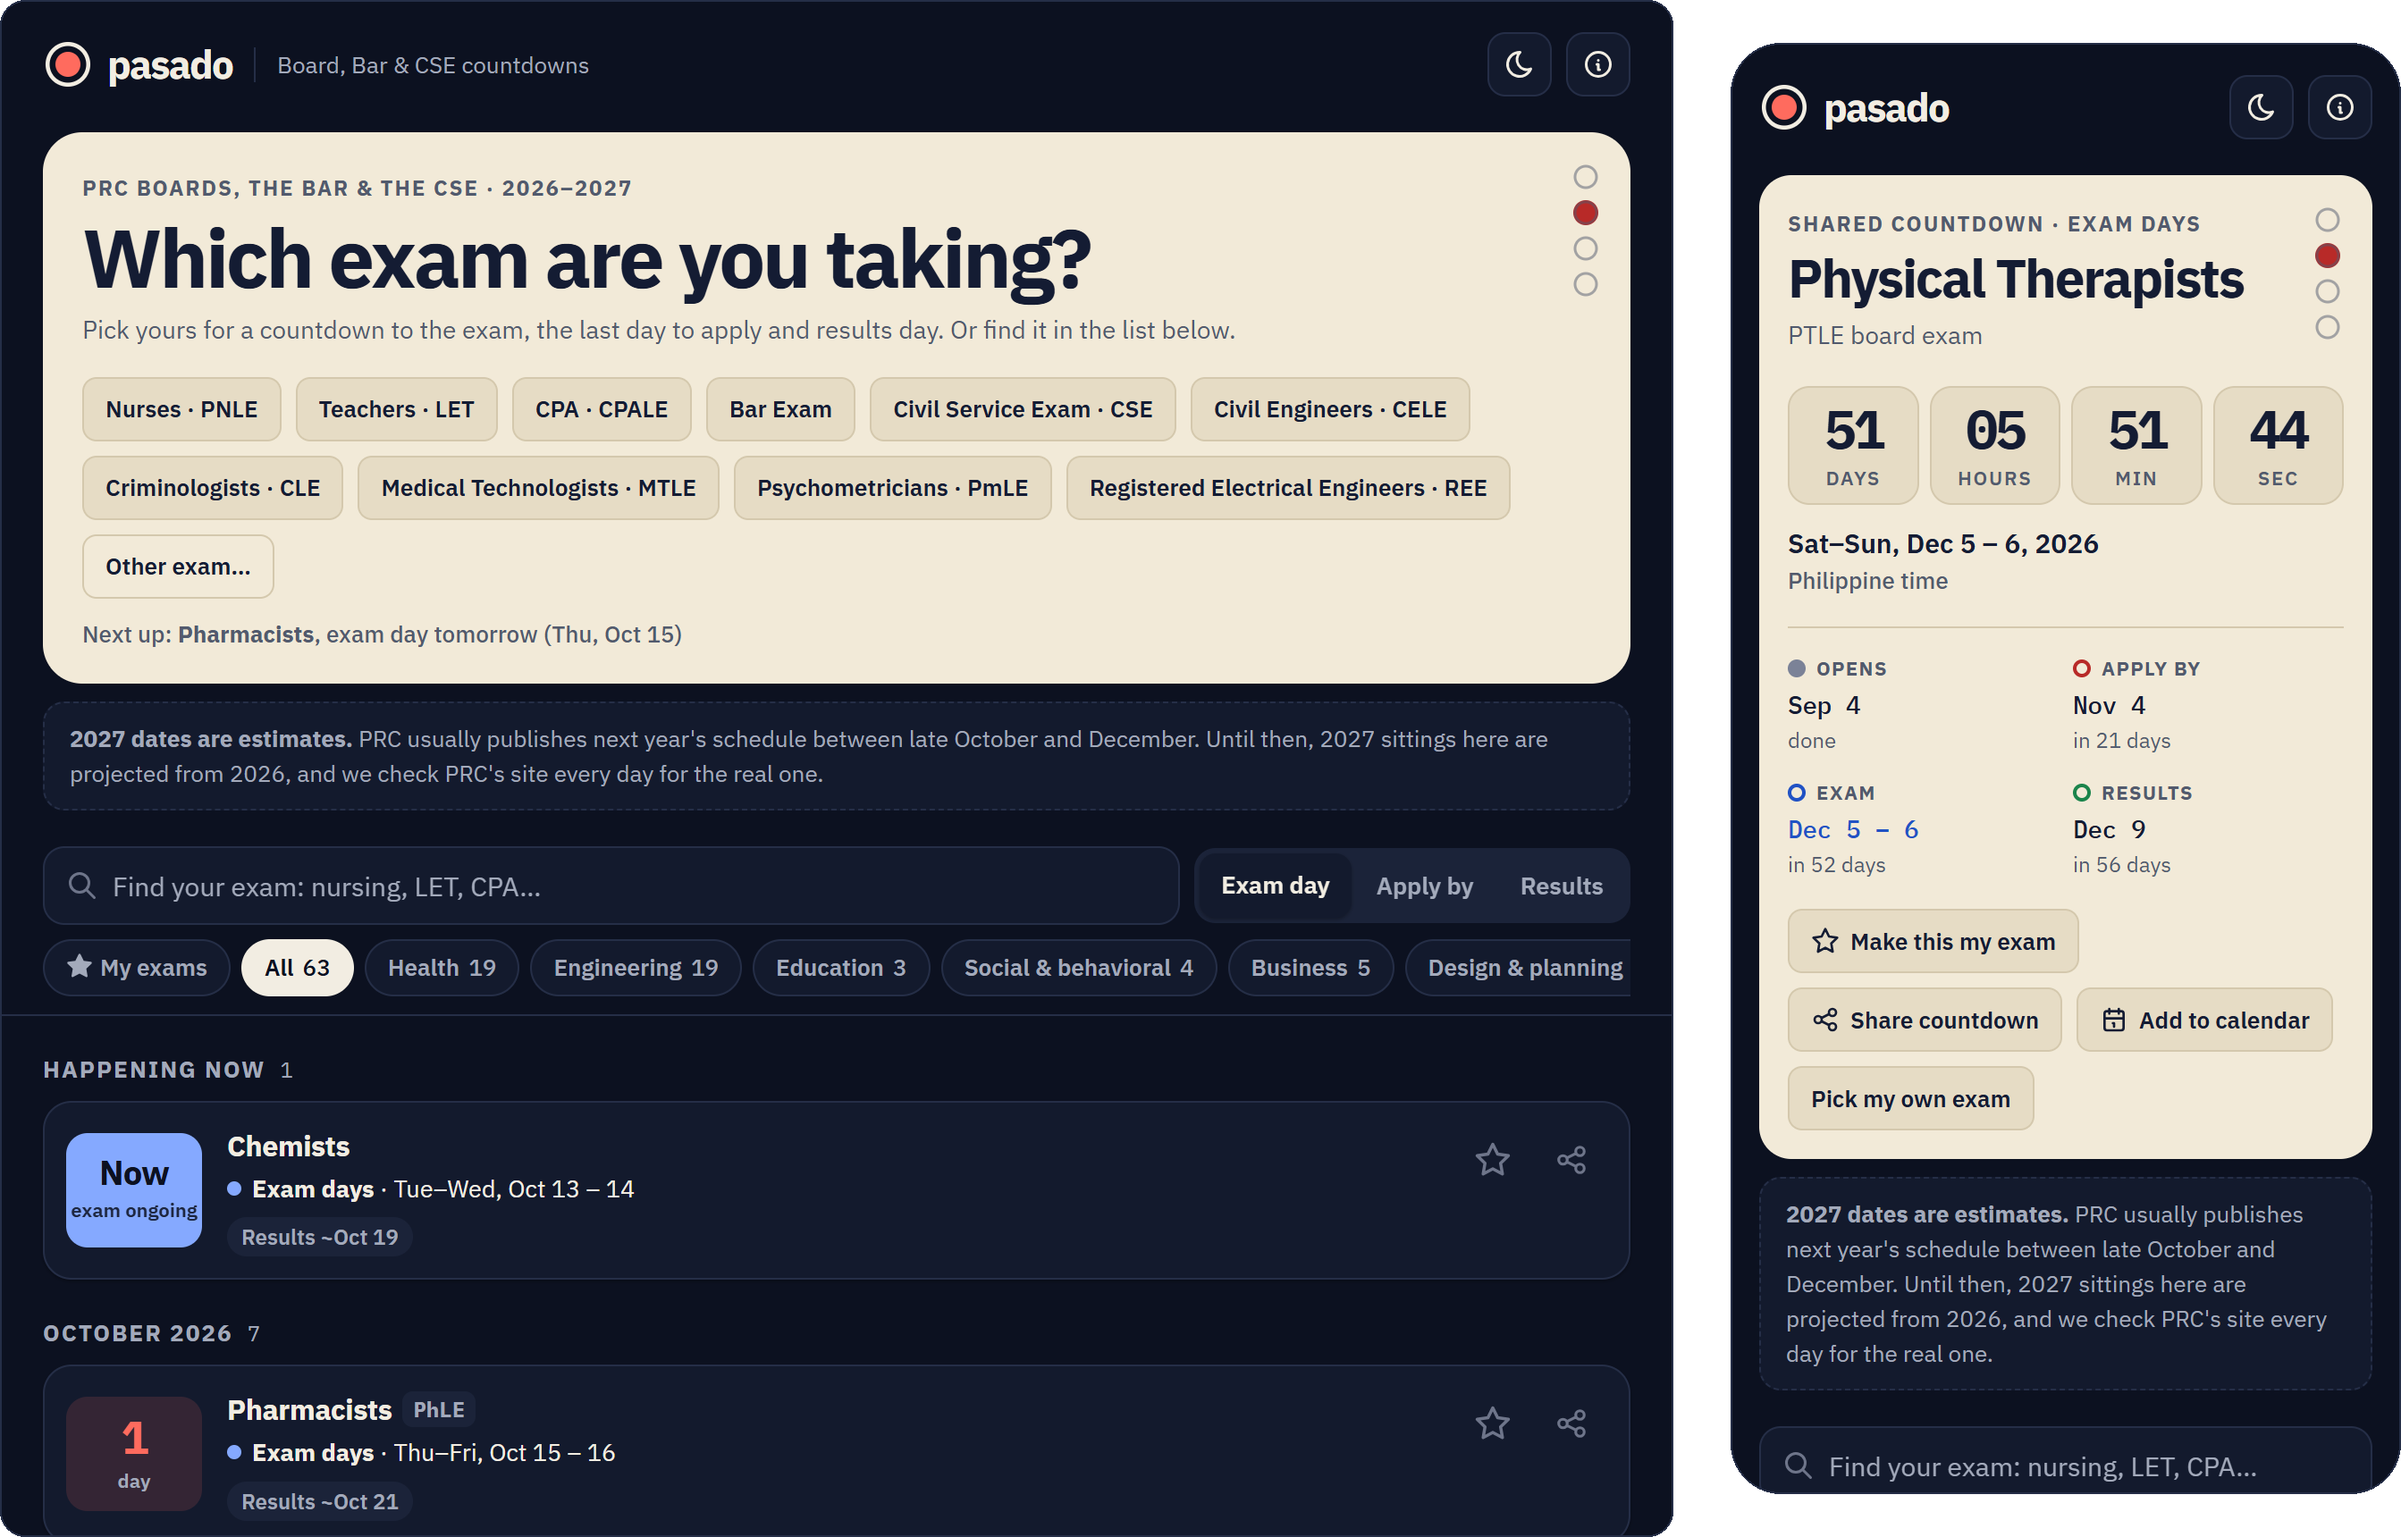
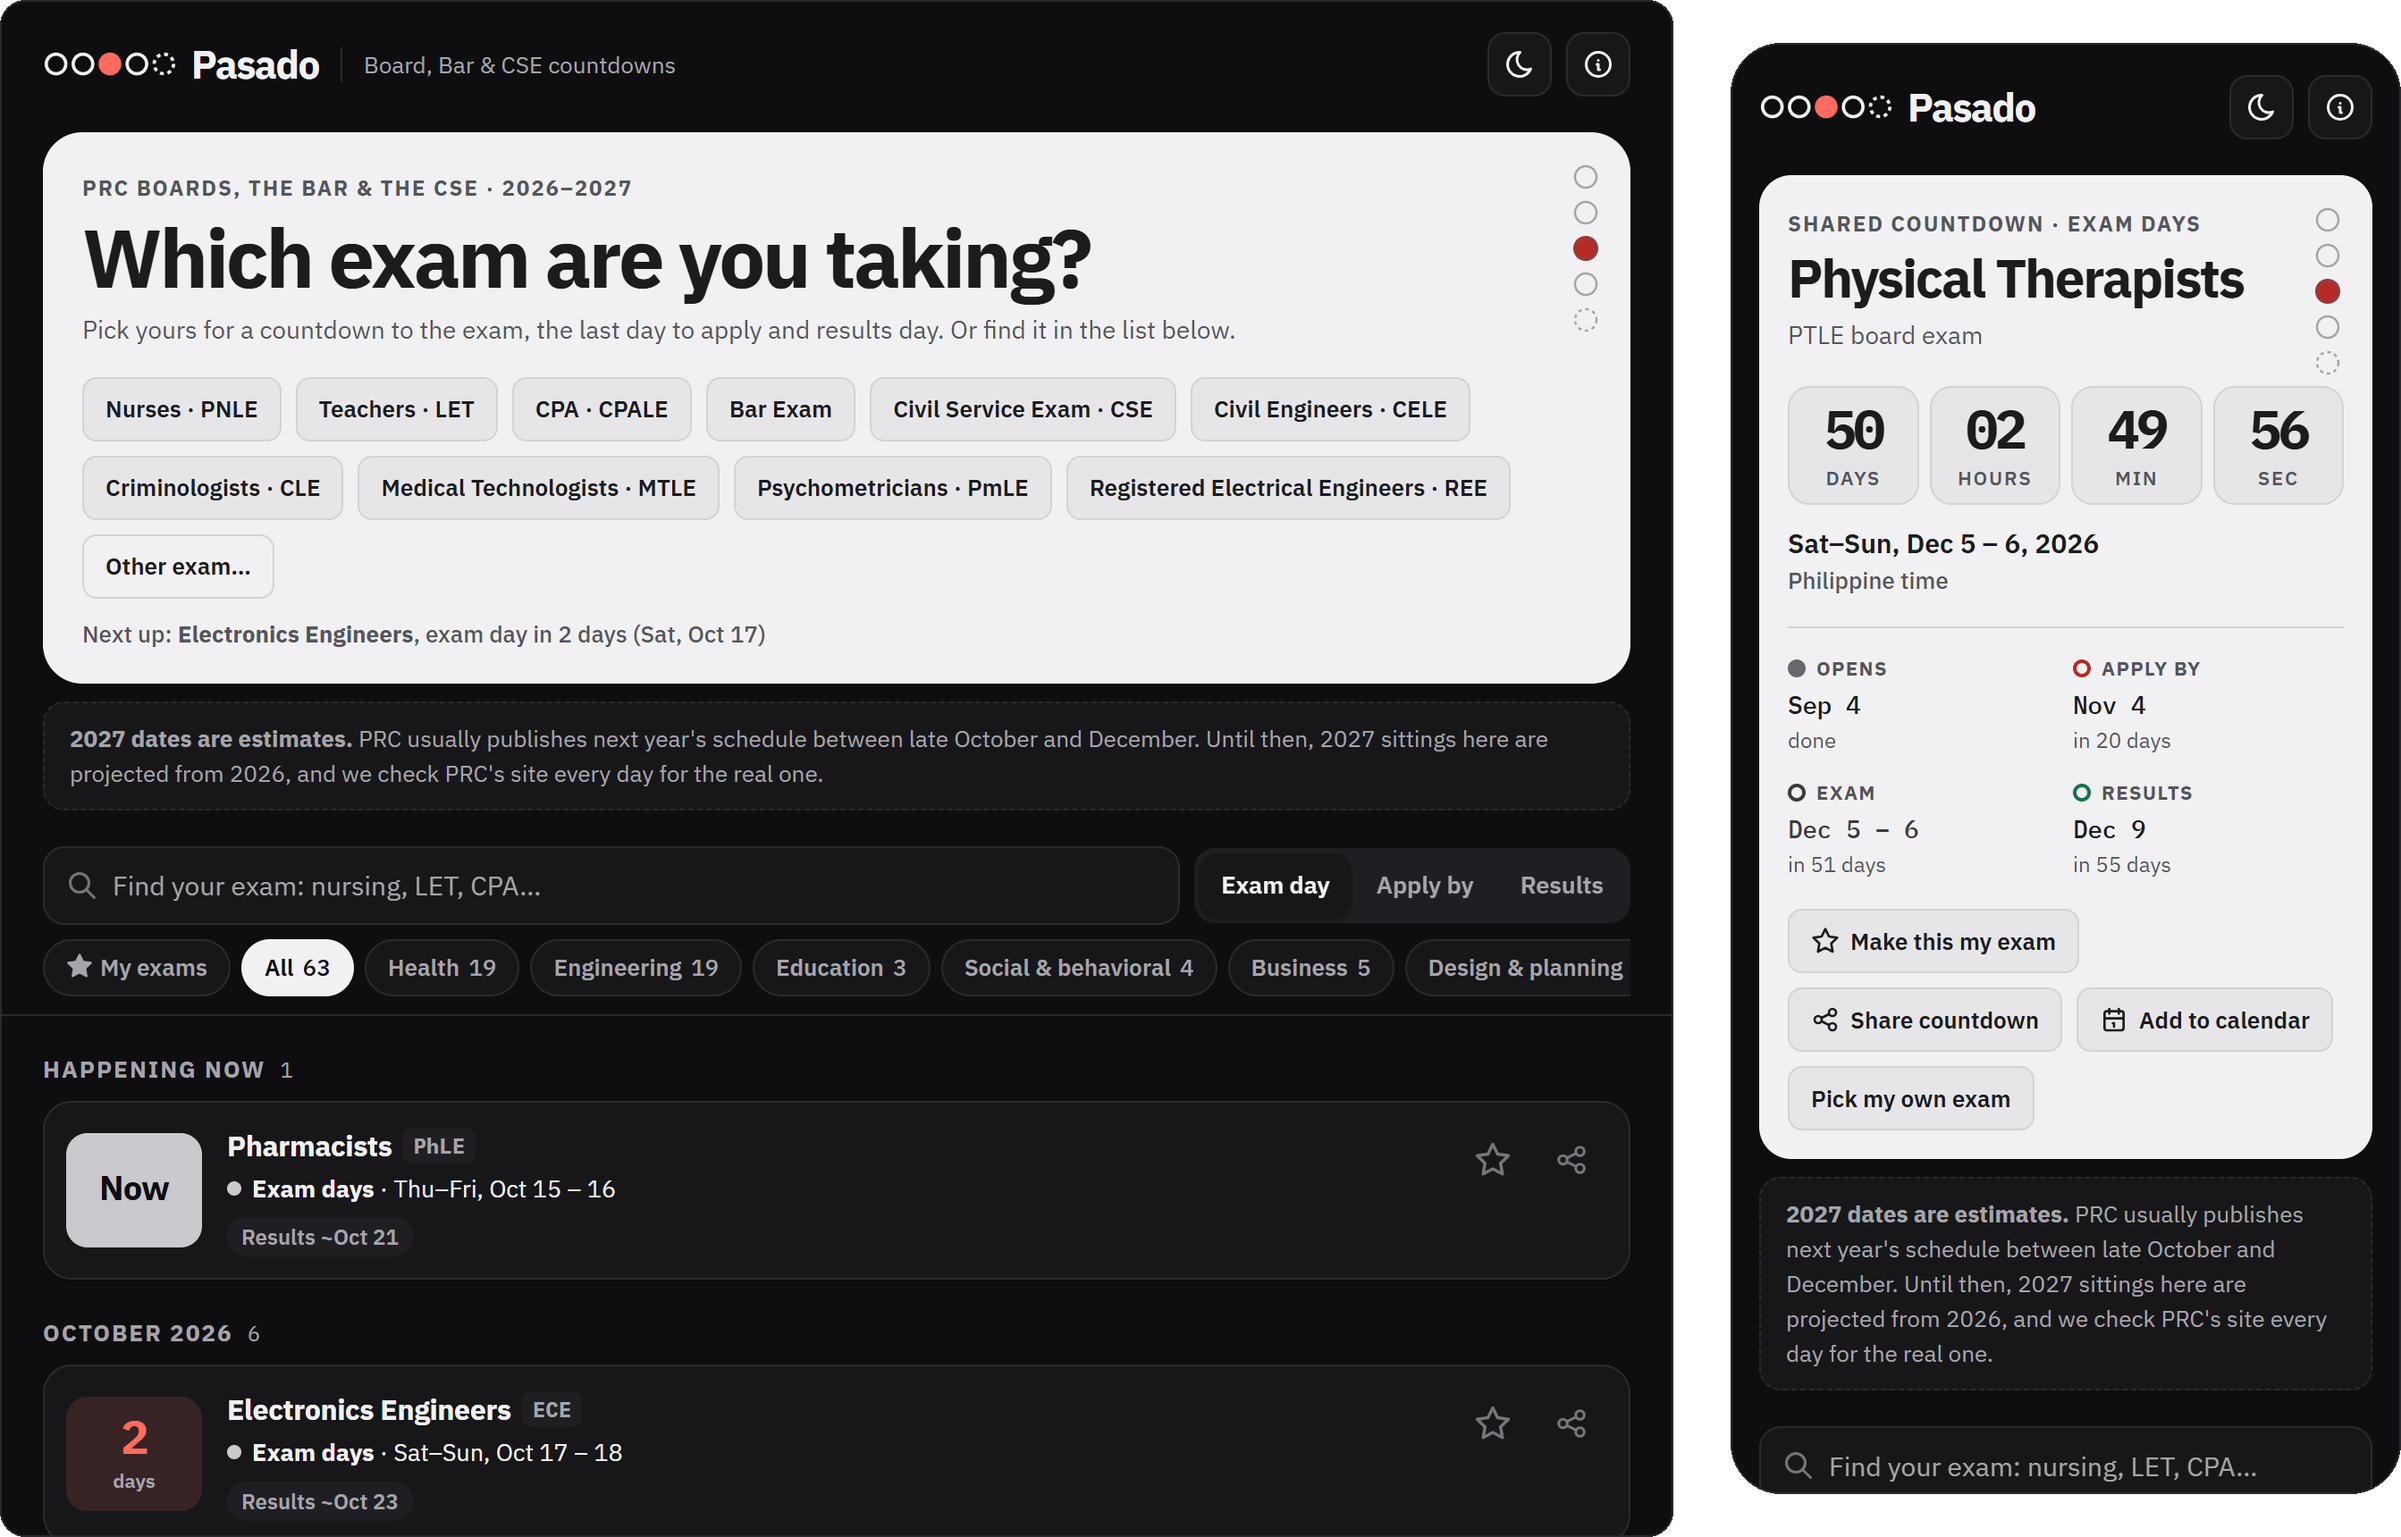
README: new screenshots, design section, countdown lines, preview branch
Screenshots retaken with the pencil palette and five-bubble logo; badges
in graphite. Adds a short Design section pointing to DESIGN.md, the
stage-based countdown lines, the rule for exam titles, and the
preview -> main deploy flow.

diff --git a/docs/make_screenshots.py b/docs/make_screenshots.py
@@ -25,7 +25,7 @@ CHROME = r"C:\Program Files\Google\Chrome\Application\chrome.exe"
 PORT = 8775
 EXAM = "physical-therapists"  # an exam with confirmed dates, so the countdown ticks
 SCALE = 2
-LINE = {"light": "#e1d8c6", "dark": "#252e47"}  # --line in each theme
+LINE = {"light": "#e3e3e6", "dark": "#2a2a2f"}  # --line in each theme
 
 # Loads the site in a fixed-size frame with the theme preset, because headless
 # Chrome won't make a window narrower than ~500 px and ignores colour-scheme flags.

diff --git a/README.md b/README.md
@@ -4,9 +4,9 @@
 
 <p align="center">
   <a href="https://pasado.ruzcko.dev"><img src="https://img.shields.io/badge/live-pasado.ruzcko.dev-b82a28?logo=cloudflare&logoColor=white" alt="Live site: pasado.ruzcko.dev"></a>
-  <a href="https://pasado.ruzcko.dev"><img src="https://img.shields.io/badge/dynamic/json?url=https%3A%2F%2Fpasado.ruzcko.dev%2Fdata%2Fexams.json&query=%24.exams.length&label=exams&color=16213e" alt="Number of exams covered"></a>
-  <a href="#where-the-dates-come-from"><img src="https://img.shields.io/badge/dates-PRC%20%C2%B7%20Supreme%20Court%20%C2%B7%20CSC-16213e" alt="Dates from PRC, the Supreme Court and the Civil Service Commission"></a>
-  <img src="https://img.shields.io/badge/-no%20ads%2C%20no%20tracking-5c6377" alt="No ads, no tracking">
+  <a href="https://pasado.ruzcko.dev"><img src="https://img.shields.io/badge/dynamic/json?url=https%3A%2F%2Fpasado.ruzcko.dev%2Fdata%2Fexams.json&query=%24.exams.length&label=exams&color=1f1f22" alt="Number of exams covered"></a>
+  <a href="#where-the-dates-come-from"><img src="https://img.shields.io/badge/dates-PRC%20%C2%B7%20Supreme%20Court%20%C2%B7%20CSC-1f1f22" alt="Dates from PRC, the Supreme Court and the Civil Service Commission"></a>
+  <img src="https://img.shields.io/badge/-no%20ads%2C%20no%20tracking-5d5d63" alt="No ads, no tracking">
 </p>
 
 # Pasado
@@ -20,6 +20,7 @@ Countdowns to every PRC board exam in the Philippines, plus the Bar and the Civi
 
 - **Pick your exam** and get a live countdown, with the four dates that matter: applications open, apply by, exam days and results.
 - **Share it.** Every exam has its own link (`/nurses`, `/cpa`, `/bar`) with a link preview, and a share card for Stories.
+- **A line for where you are.** Under the countdown, cards say something that fits the date: "Kumpleto na ba ang requirements mo?" while filing is open, "Konting tiis na lang." in the last week, "Kapag hindi sigurado, C." on exam day, "Sana nasa listahan ka." on results day.
 - **Add it to your calendar** with a feed per exam, which updates when PRC moves a date.
 - **Next year's dates are estimated** until PRC publishes them, and marked as such everywhere.
 
@@ -41,7 +42,9 @@ Reschedules, cancellations and added testing centers are pasted into the cells a
   It also keeps when a sitting's dates changed, so the page can say "moved".
 - `data/exams.json` is the catalog: one entry per exam with a permanent `key` (used in links
   like `/nurses`), the names PRC has used for it, acronyms people search for (PNLE, LET, CPALE…),
-  a category, and the title passers earn (RN, CPA, LPT, Engr.…) for share cards.
+  a category, and the title passers earn (RN, CPA, LPT, Engr.…) for "Laban, future ___!" on cards.
+  Only use an abbreviation you can confirm in the law or a PRC resolution; otherwise write the
+  profession in plain words ("future geologist").
   A new exam PRC adds still shows up (under "Other") until it's added here.
 - `data/overrides.json` holds manual corrections, by sitting id. Use sparingly.
 - `data/other_exams.json` holds exams outside PRC, entered by hand: the **Bar exam** (Supreme
@@ -54,17 +57,28 @@ Reschedules, cancellations and added testing centers are pasted into the cells a
   **estimated** from this year's (same weekday, 52 weeks later) and marked as such;
   estimates never go into calendar feeds.
 
+## Design
+
+It looks like the answer sheet you shade on exam day: white paper, pencil-graphite ink, and one
+red bubble. The logo is a row of answer bubbles, A to E, with C shaded (*kapag hindi sigurado, C*)
+and E dashed, because every sheet prints an E and nobody shades it. Fonts are IBM Plex Sans and
+Plex Mono. [`DESIGN.md`](DESIGN.md) has the colour tokens, both themes, the share-card palettes,
+the countdown lines and the contrast and tap-target checks; read it before changing the look.
+
 ## Run locally
 
 ```bash
 python pipeline/prc.py      # fetch and parse (or: python pipeline/prc.py --file page.html --year 2026)
 python pipeline/build.py
 python pipeline/dev.py      # http://localhost:8774, also answers /nurses like production
+python docs/make_screenshots.py   # refresh the README screenshots after a visual change
 ```
 
 ## Deploy (Cloudflare Pages)
 
-- Pages project `pasado`, connected to this repo (branch `main`), custom domain `pasado.ruzcko.dev`.
+- Pages project `pasado`, connected to this repo, custom domain `pasado.ruzcko.dev`. A push to
+  `main` deploys the live site; a push to `preview` deploys https://preview.pasado-emy.pages.dev
+  for review first. Merge `preview` into `main` when it's ready.
 - Build command: `python3 pipeline/build.py`. Output directory: `site`.
 - `functions/` adds what static files can't: `/<exam>` routes and link previews (title,
   description and a 1200×630 countdown image from `functions/og.js`, drawn with resvg).
@@ -72,7 +86,7 @@ python pipeline/dev.py      # http://localhost:8774, also answers /nurses like p
   PRC refuses connections from GitHub's servers. For now, run `pipeline/prc.py` from a PC and push;
   the push rebuilds the site.
 - The ruzcko.dev zone sets a 4-hour browser cache on static files, so Pages builds stamp
-  `app.js`, `share.js` and `style.css` with `?v=<hash>`.
+  `icons.js`, `app.js`, `share.js` and `style.css` with `?v=<hash>`.
 
 ## Credits
 
